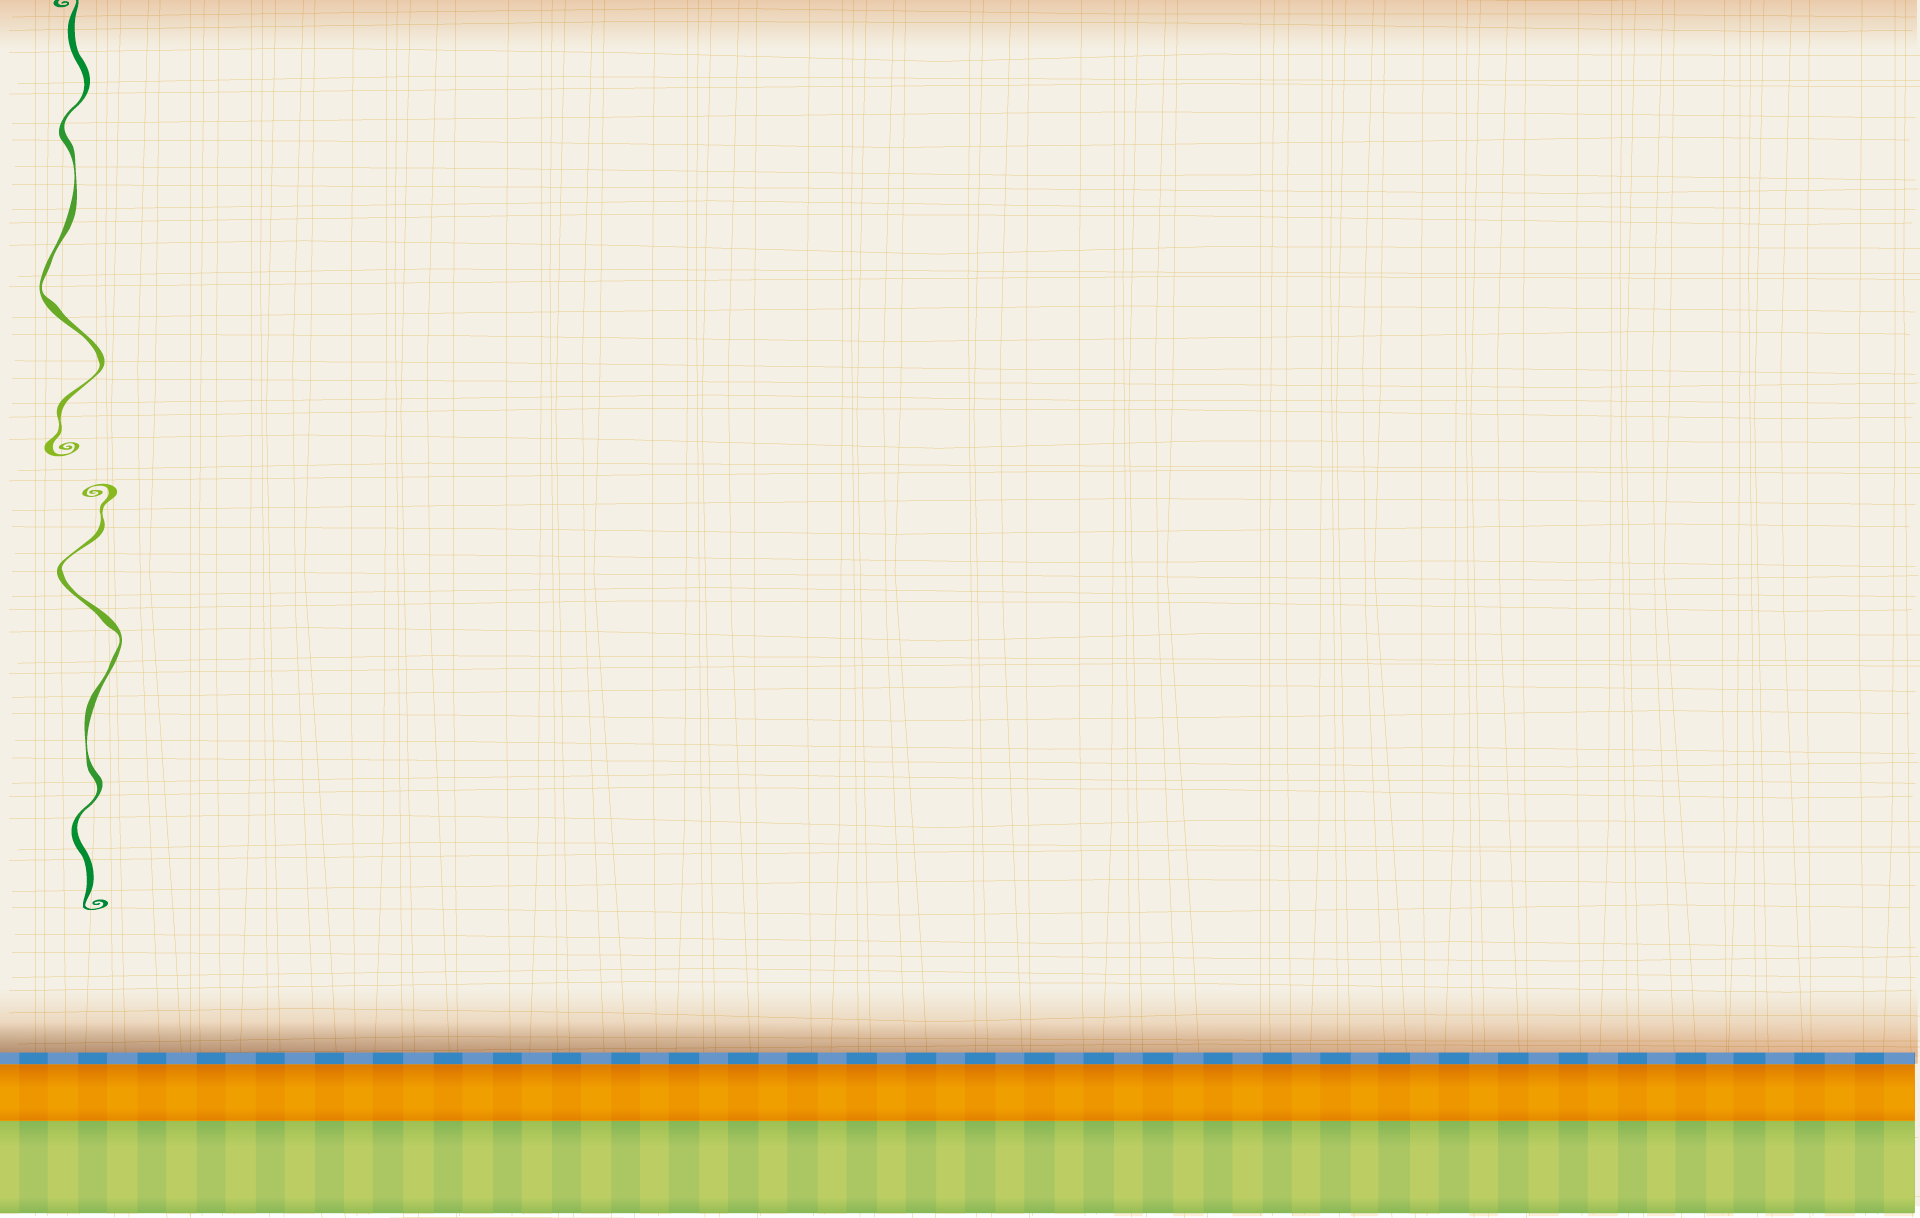
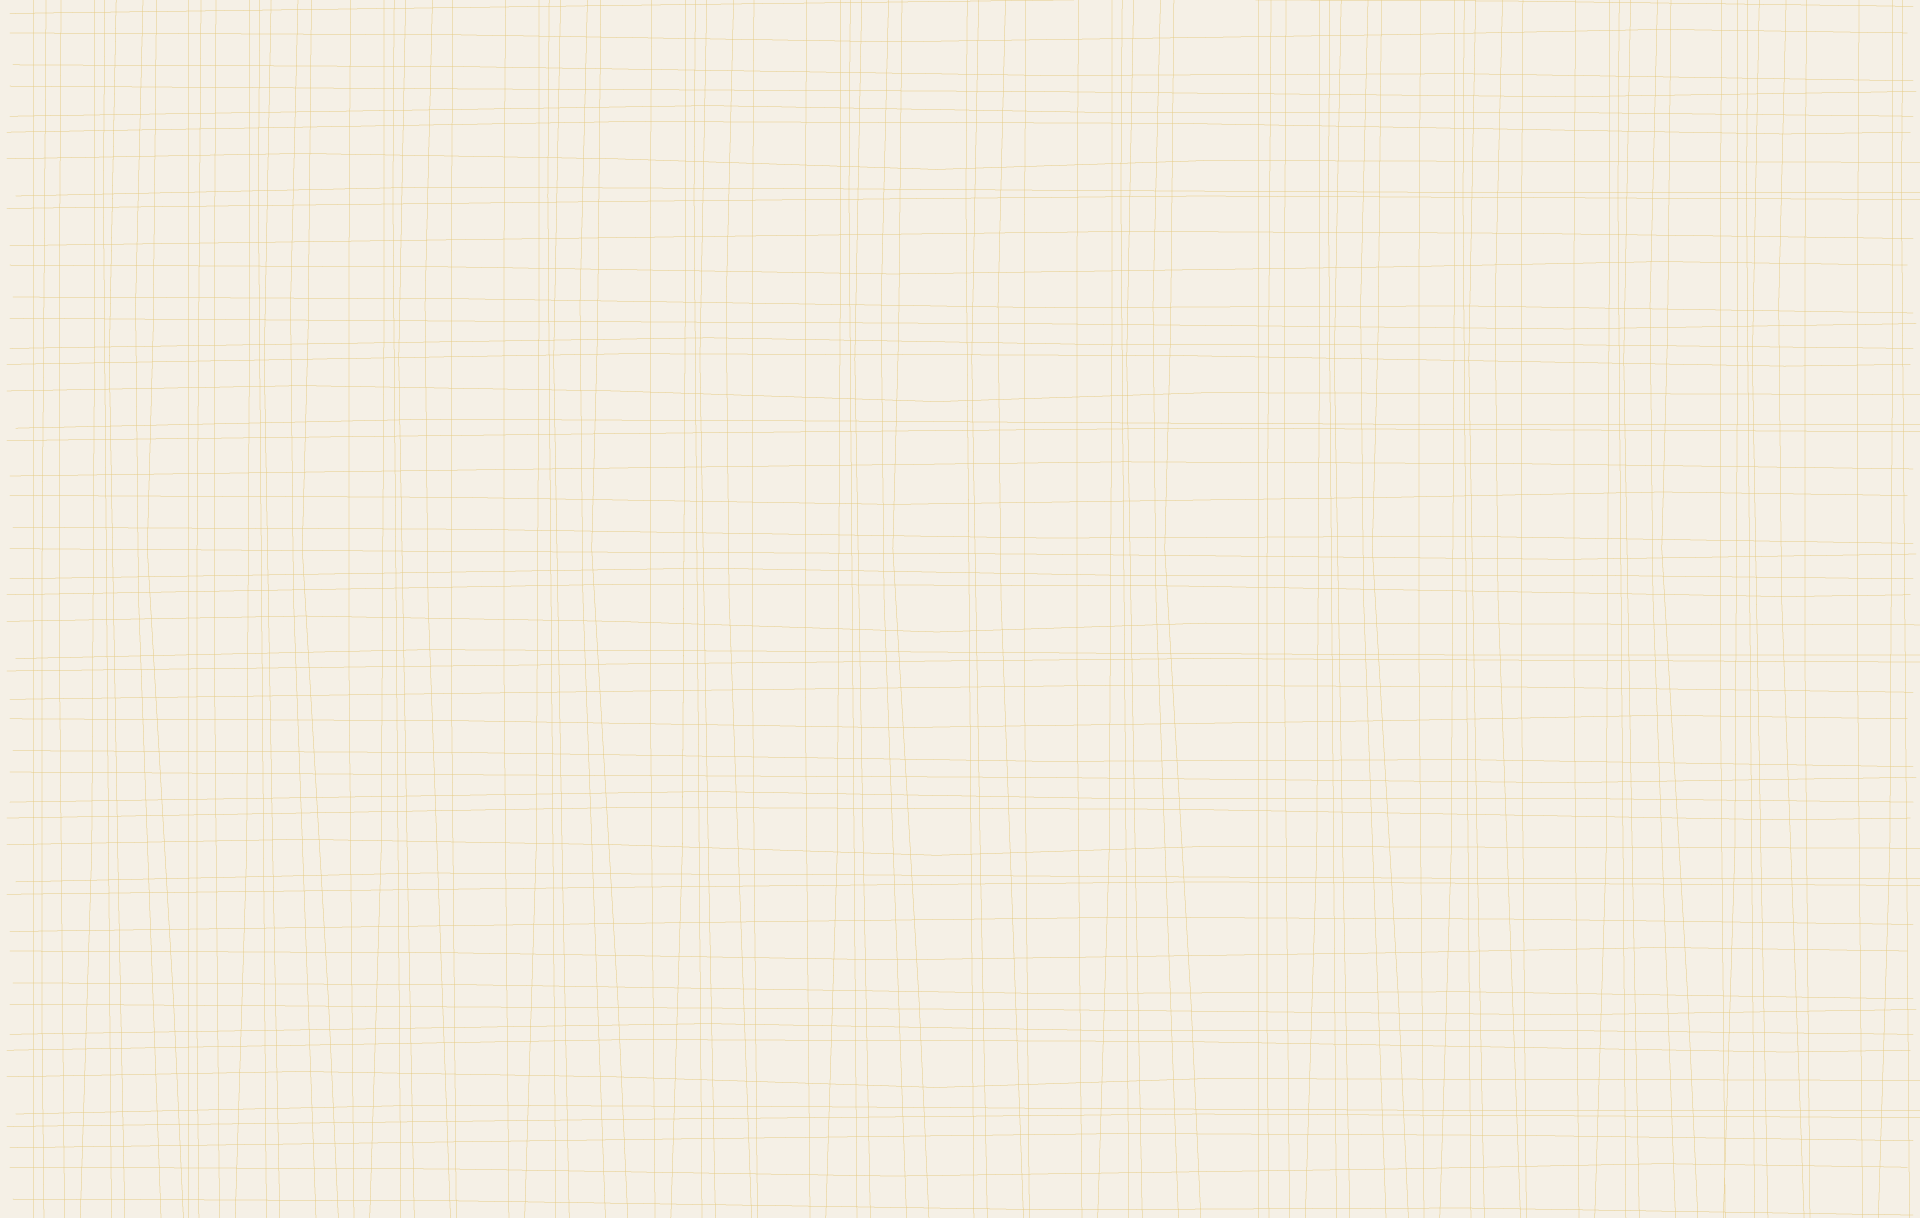
cambios imagenes
ultimas imagenes

Changed region(s): [[0.0, 0.0, 1.0, 1.0], [0.9688, 0.2496, 1.0, 0.2808]]

diff --git a/Web_pekelandia/css/style.css b/Web_pekelandia/css/style.css
@@ -5,10 +5,10 @@ body {
 	font: 14px/22px Georgia, "Times New Roman", Times, serif;
 	color:#838180;
 	min-width:1000px;
-	background: #000000;
+	background: url(../images/fondo_bajo.png);
 }
 .ic {border:0;float:right;background:#fff;color:#f00;width:50%;line-height:10px;font-size:10px;margin:0 10000% 0 0;overflow:hidden;padding:0}
-.main {width:100%; background:url(../images/bg.jpg) center 0 no-repeat;}
+.main {width:100%; background:url(../images/fondo_up.png) center 0 no-repeat;}
 /***********************************************************************/
 a {text-decoration:none; cursor:pointer;text-decoration:none; }
 a:hover {text-decoration:none;}
@@ -82,7 +82,7 @@ ul.list-2 li a:hover {color:#0072ff;}
 .p7 {padding-bottom:12px;}
 
 /*********************************header*************************************/
-header {width:1000px; margin:0 auto; z-index:101; background:url(../images/header.jpg) right 0 no-repeat; }
+header {width:1000px; margin:0 auto; z-index:101;  }
 
 h1 {margin:27px 0 0 63px; display:inline-block; z-index:100;}
 
